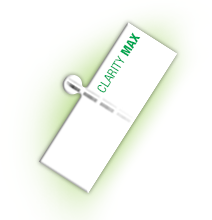
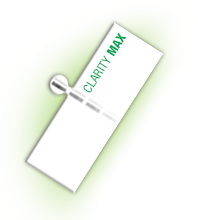
made img updates, addressed feedback v2

Changed region(s): [[0.1212, 0.0818, 0.8485, 0.9]]

diff --git a/300x250/js/script.js b/300x250/js/script.js
@@ -1,1 +1,1 @@
-function startAd(){var ttl=new TimelineLite;ttl.from("#t1",.2,{opacity:0}).to("#t1",.6,{opacity:0},2.5).from("#t2",.6,{opacity:0},2.5).to("#t2",.6,{opacity:0},4.2).from("#t3",.6,{opacity:0,y:250},3.9).to("#t3",.6,{opacity:0},6.2).from("#t4",.6,{opacity:0},7.4).to("#t4",.6,{opacity:0,y:-50,ease:Power3.easeOut},9.3).from("#t5",.6,{opacity:0},9.3);var ptl=new TimelineLite;ptl.from("#p1",.6,{opacity:0,y:-190,ease:Power3.easeOut}).from("#p2",.6,{opacity:0,y:-190,ease:Power3.easeOut},3.4).to("#p2",.4,{opacity:0,x:-5,y:-6,ease:Power3.easeOut},4.4).from("#p2a",.4,{opacity:0,x:5,y:6,ease:Power3.easeOut},4.4).to("#p1",.6,{x:-80,ease:Power3.easeOut},4.8).to("#p2a",.6,{x:-80,ease:Power3.easeOut},4.8);var ftl=new TimelineLite;ftl.from("#bradFlare",.6,{opacity:0}).to("#bradFlare",.6,{x:-76,ease:Power3.easeOut},.4).from("#bradSparkle",.6,{opacity:0,rotation:180},.6).to("#bradSparkle",.8,{opacity:.5},1.4);var ctl=new TimelineLite;ctl.from("#bradCtaButton",.6,{opacity:0,ease:Power3.easeOut}),tl.add(ttl,0),tl.add(ptl,2.5),tl.add(ftl,6.9),tl.add(ctl,9.3),tl.totalDuration(13)}function addListeners(){document.getElementById("bradContent").addEventListener("click",clickthrough)}function clickthrough(){EB.clickthrough()}function animationComplete(evt){}function checkInit(){function onInit(){TweenLite.set("#bradContainer",{opacity:1}),TweenLite.set("#bradFlare",{opacity:.7}),addListeners(),startAd()}EB.isInitialized()?onInit():EB.addEventListener(EBG.EventName.EB_INITIALIZED,onInit)}function updateSlider(){$("#slider").slider("value",100*tl.progress())}window.addEventListener("load",checkInit);var tl=new TimelineLite({onUpdate:updateSlider});tl.eventCallback("onComplete",animationComplete),$("#play").click(function(){1!=tl.progress()?tl.play():tl.restart()}),$("#pause").click(function(){tl.pause()}),$("#restart").click(function(){tl.restart()}),$("#slider").slider({range:!1,min:0,max:100,step:.1,slide:function(event,ui){tl.pause(),tl.progress(ui.value/100)}});
+function startAd(){var ttl=new TimelineLite;ttl.from("#t1",.2,{opacity:0}).to("#t1",.6,{opacity:0},2).from("#t2",.6,{opacity:0},2).to("#t2",.6,{opacity:0},3.7).from("#t3",.6,{opacity:0,y:250},3.4).to("#t3",.6,{opacity:0},5.2).from("#t4",.6,{opacity:0},7).to("#t4",.6,{opacity:0,y:-50,ease:Power3.easeOut},8).from("#t5",.6,{opacity:0},8);var ptl=new TimelineLite;ptl.from("#p1",.6,{opacity:0,y:-190,ease:Power3.easeOut}).from("#p2",.6,{opacity:0,y:-190,ease:Power3.easeOut},3).to("#p2",.4,{opacity:0,x:-5,y:-6,ease:Power3.easeOut},4).from("#p2a",.4,{opacity:0,x:5,y:6,ease:Power3.easeOut},4).to("#p1",.6,{x:-80,ease:Power3.easeOut},4.8).to("#p2a",.6,{x:-80,ease:Power3.easeOut},4.8);var ftl=new TimelineLite;ftl.from("#bradFlare",.6,{opacity:0}).from("#bradSparkle",.6,{opacity:0,rotation:180},0).from("#bradSparkle1",.6,{opacity:0,rotation:180},0).to("#bradFlare",.6,{x:-76,ease:Power3.easeOut},.8).to("#bradSparkle",.6,{x:-76,opacity:.5,ease:Power3.easeOut},.8).to("#bradSparkle1",.6,{x:-76,opacity:0,ease:Power3.easeOut},.8);var ctl=new TimelineLite;ctl.from("#bradCtaButton",.6,{opacity:0,ease:Power3.easeOut}),tl.add(ttl,0),tl.add(ptl,2),tl.add(ftl,6),tl.add(ctl,8),tl.totalDuration(13)}function addListeners(){document.getElementById("bradContent").addEventListener("click",clickthrough)}function clickthrough(){EB.clickthrough()}function animationComplete(evt){}function checkInit(){function onInit(){TweenLite.set("#bradContainer",{opacity:1}),TweenLite.set("#bradFlare",{opacity:.7}),addListeners(),startAd()}EB.isInitialized()?onInit():EB.addEventListener(EBG.EventName.EB_INITIALIZED,onInit)}function updateSlider(){$("#slider").slider("value",100*tl.progress())}window.addEventListener("load",checkInit);var tl=new TimelineLite({onUpdate:updateSlider});tl.eventCallback("onComplete",animationComplete),$("#play").click(function(){1!=tl.progress()?tl.play():tl.restart()}),$("#pause").click(function(){tl.pause()}),$("#restart").click(function(){tl.restart()}),$("#slider").slider({range:!1,min:0,max:100,step:.1,slide:function(event,ui){tl.pause(),tl.progress(ui.value/100)}});

diff --git a/300x250/_/components/js/script.js b/300x250/_/components/js/script.js
@@ -1,36 +1,38 @@
 function startAd(){  
            var ttl = new TimelineLite();
     ttl.from("#t1", .2, {opacity:0})
-        .to("#t1", .6, {opacity:0}, 2.5)
-        .from("#t2", .6, {opacity:0}, 2.5)
-        .to("#t2", .6, {opacity:0}, 4.2)
-        .from("#t3", .6, {opacity:0, y:250}, 3.9)
-        .to("#t3", .6, {opacity:0}, 6.2)
-        .from("#t4", .6, {opacity:0}, 7.4)
-        .to("#t4", .6, {opacity:0, y:-50,ease: Power3.easeOut}, 9.3)
-        .from("#t5", .6, {opacity:0}, 9.3);
+        .to("#t1", .6, {opacity:0}, 2)
+        .from("#t2", .6, {opacity:0}, 2)
+        .to("#t2", .6, {opacity:0}, 3.7)
+        .from("#t3", .6, {opacity:0, y:250}, 3.4)
+        .to("#t3", .6, {opacity:0}, 5.2)
+        .from("#t4", .6, {opacity:0}, 7)
+        .to("#t4", .6, {opacity:0, y:-50,ease: Power3.easeOut}, 8)
+        .from("#t5", .6, {opacity:0}, 8);
     
     var ptl = new TimelineLite();
     ptl.from("#p1", .6, {opacity:0, y:-190,ease: Power3.easeOut})
-        .from("#p2", .6, {opacity:0, y:-190,ease: Power3.easeOut}, 3.4)
-        .to("#p2", .4, {opacity:0, x:-5, y:-6,ease: Power3.easeOut}, 4.4)
-        .from("#p2a", .4, {opacity:0, x:5, y:6,ease: Power3.easeOut}, 4.4)
+        .from("#p2", .6, {opacity:0, y:-190,ease: Power3.easeOut}, 3)
+        .to("#p2", .4, {opacity:0, x:-5, y:-6,ease: Power3.easeOut}, 4)
+        .from("#p2a", .4, {opacity:0, x:5, y:6,ease: Power3.easeOut}, 4)
         .to("#p1", .6, {x:-80,ease: Power3.easeOut}, 4.8)
         .to("#p2a", .6, {x:-80,ease: Power3.easeOut}, 4.8);
     
     var ftl = new TimelineLite();
     ftl.from("#bradFlare", .6, {opacity:0})
-    .to("#bradFlare", .6, {x: -76,ease: Power3.easeOut}, .4)
-    .from("#bradSparkle", .6, {opacity:0, rotation:180}, .6)
-    .to("#bradSparkle", .8, {opacity:.5}, 1.4);
+    .from("#bradSparkle", .6, {opacity:0, rotation:180}, 0)
+    .from("#bradSparkle1", .6, {opacity:0, rotation:180}, 0)
+    .to("#bradFlare", .6, {x: -76,ease: Power3.easeOut}, .8)
+    .to("#bradSparkle", .6, {x: -76,opacity:.5, ease: Power3.easeOut}, .8)
+    .to("#bradSparkle1", .6, {x: -76,opacity:0, ease: Power3.easeOut}, .8);
     
     var ctl = new TimelineLite();
     ctl.from("#bradCtaButton", .6, { opacity:0,ease: Power3.easeOut});
     
     tl.add(ttl, 0);
-    tl.add(ptl, 2.5);
-    tl.add(ftl, 6.9);
-    tl.add(ctl, 9.3);
+    tl.add(ptl, 2);
+    tl.add(ftl, 6);
+    tl.add(ctl, 8);
     
     tl.totalDuration(13);
     

diff --git a/300x250/css/styles.css b/300x250/css/styles.css
@@ -81,11 +81,11 @@ body {
       left: 0px;
       width: 400px;
       height: 250px; }
-    #bradContainer #bradContent #bradSparkle {
+    #bradContainer #bradContent #bradSparkle, #bradContainer #bradContent #bradSparkle1 {
       background-image: url(../img/burst.png);
       position: absolute;
       top: 36px;
-      left: 112px;
+      left: 190px;
       width: 94px;
       height: 91px; }
     #bradContainer #bradContent #t1 {
@@ -140,10 +140,10 @@ body {
     #bradContainer #bradContent #p2a {
       background-image: url(../img/p2a.png);
       position: absolute;
-      top: 26px;
-      left: 63px;
-      width: 212px;
-      height: 214px; }
+      top: 25px;
+      left: 77px;
+      width: 198px;
+      height: 220px; }
     #bradContainer #bradContent #bradFooter {
       background: #fff;
       width: 300px;

diff --git a/300x250/_/components/sass/_adstyles.scss b/300x250/_/components/sass/_adstyles.scss
@@ -36,11 +36,11 @@
               width: 400px;
               height: 250px;
           }
-          #bradSparkle {
+          #bradSparkle,#bradSparkle1 {
               background-image: url(../img/burst.png);
               position: absolute;
               top: 36px;
-              left: 112px;
+              left: 190px;
               width: 94px;
               height: 91px;
           }
@@ -107,10 +107,10 @@
               position: absolute;
               //top: 30px;
               //left: 71px;
-              top: 26px;
-              left: 63px;
-              width: 212px;
-              height: 214px;
+              top: 25px;
+              left: 77px;
+              width: 198px;
+              height: 220px;
           }
           #bradFooter {
               background: #fff;

diff --git a/300x250/index.html b/300x250/index.html
@@ -26,9 +26,10 @@
             <div id="t2"></div>
             <div id="t3"></div>            
             <div id="p1"></div>
-            <div id="p2"></div>
             <div id="p2a"></div>
+            <div id="p2"></div>            
             <div id="bradSparkle"></div>
+            <div id="bradSparkle1"></div>
             <div id="t4"></div>
             <div id="t5"></div>
             <div id="bradFooter">
